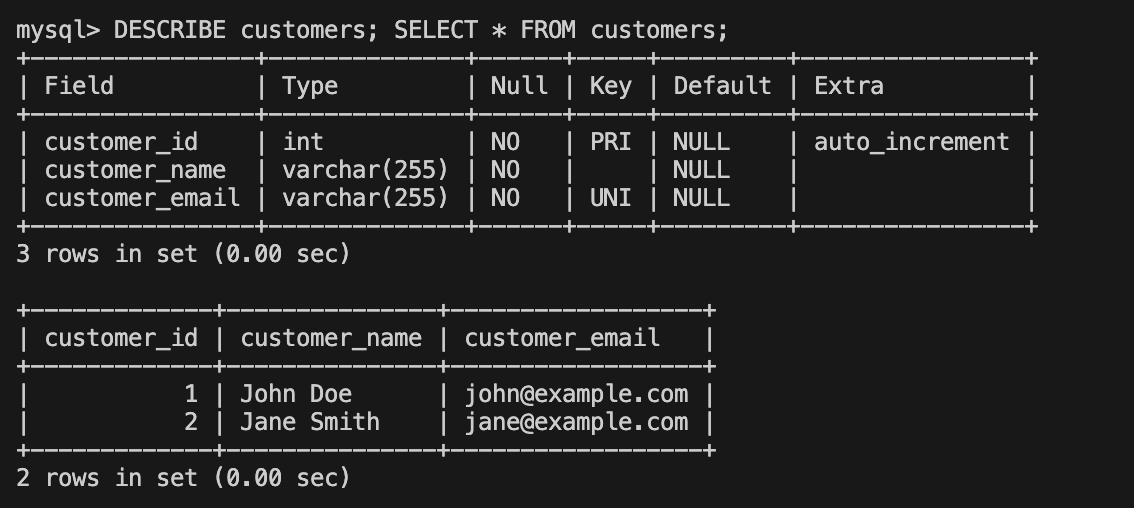
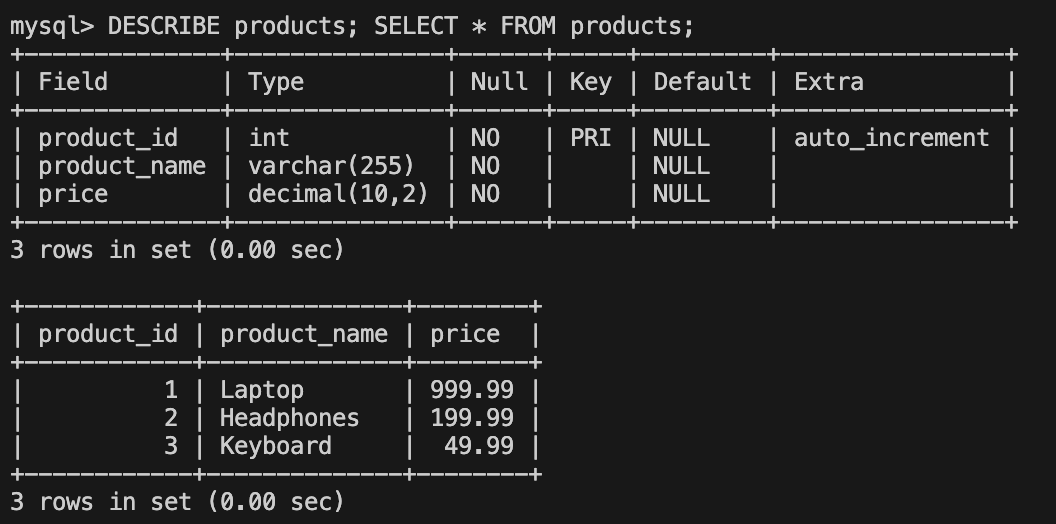
update README

Changed region(s): [[0.0, 0.0295, 0.9688, 0.5315], [0.0, 0.561, 0.625, 0.9744]]

diff --git a/README.md b/README.md
@@ -204,7 +204,7 @@ Once you're inside the MySQL client, you can run queries to view the tables:
 ```sql
 USE ecommerce_db;
 DESCRIBE customers; SELECT * FROM customers;
-DESCRIBE customers; SELECT * FROM customers;
+DESCRIBE products; SELECT * FROM products;
 DESCRIBE orders; SELECT * FROM orders;
 ```
 
